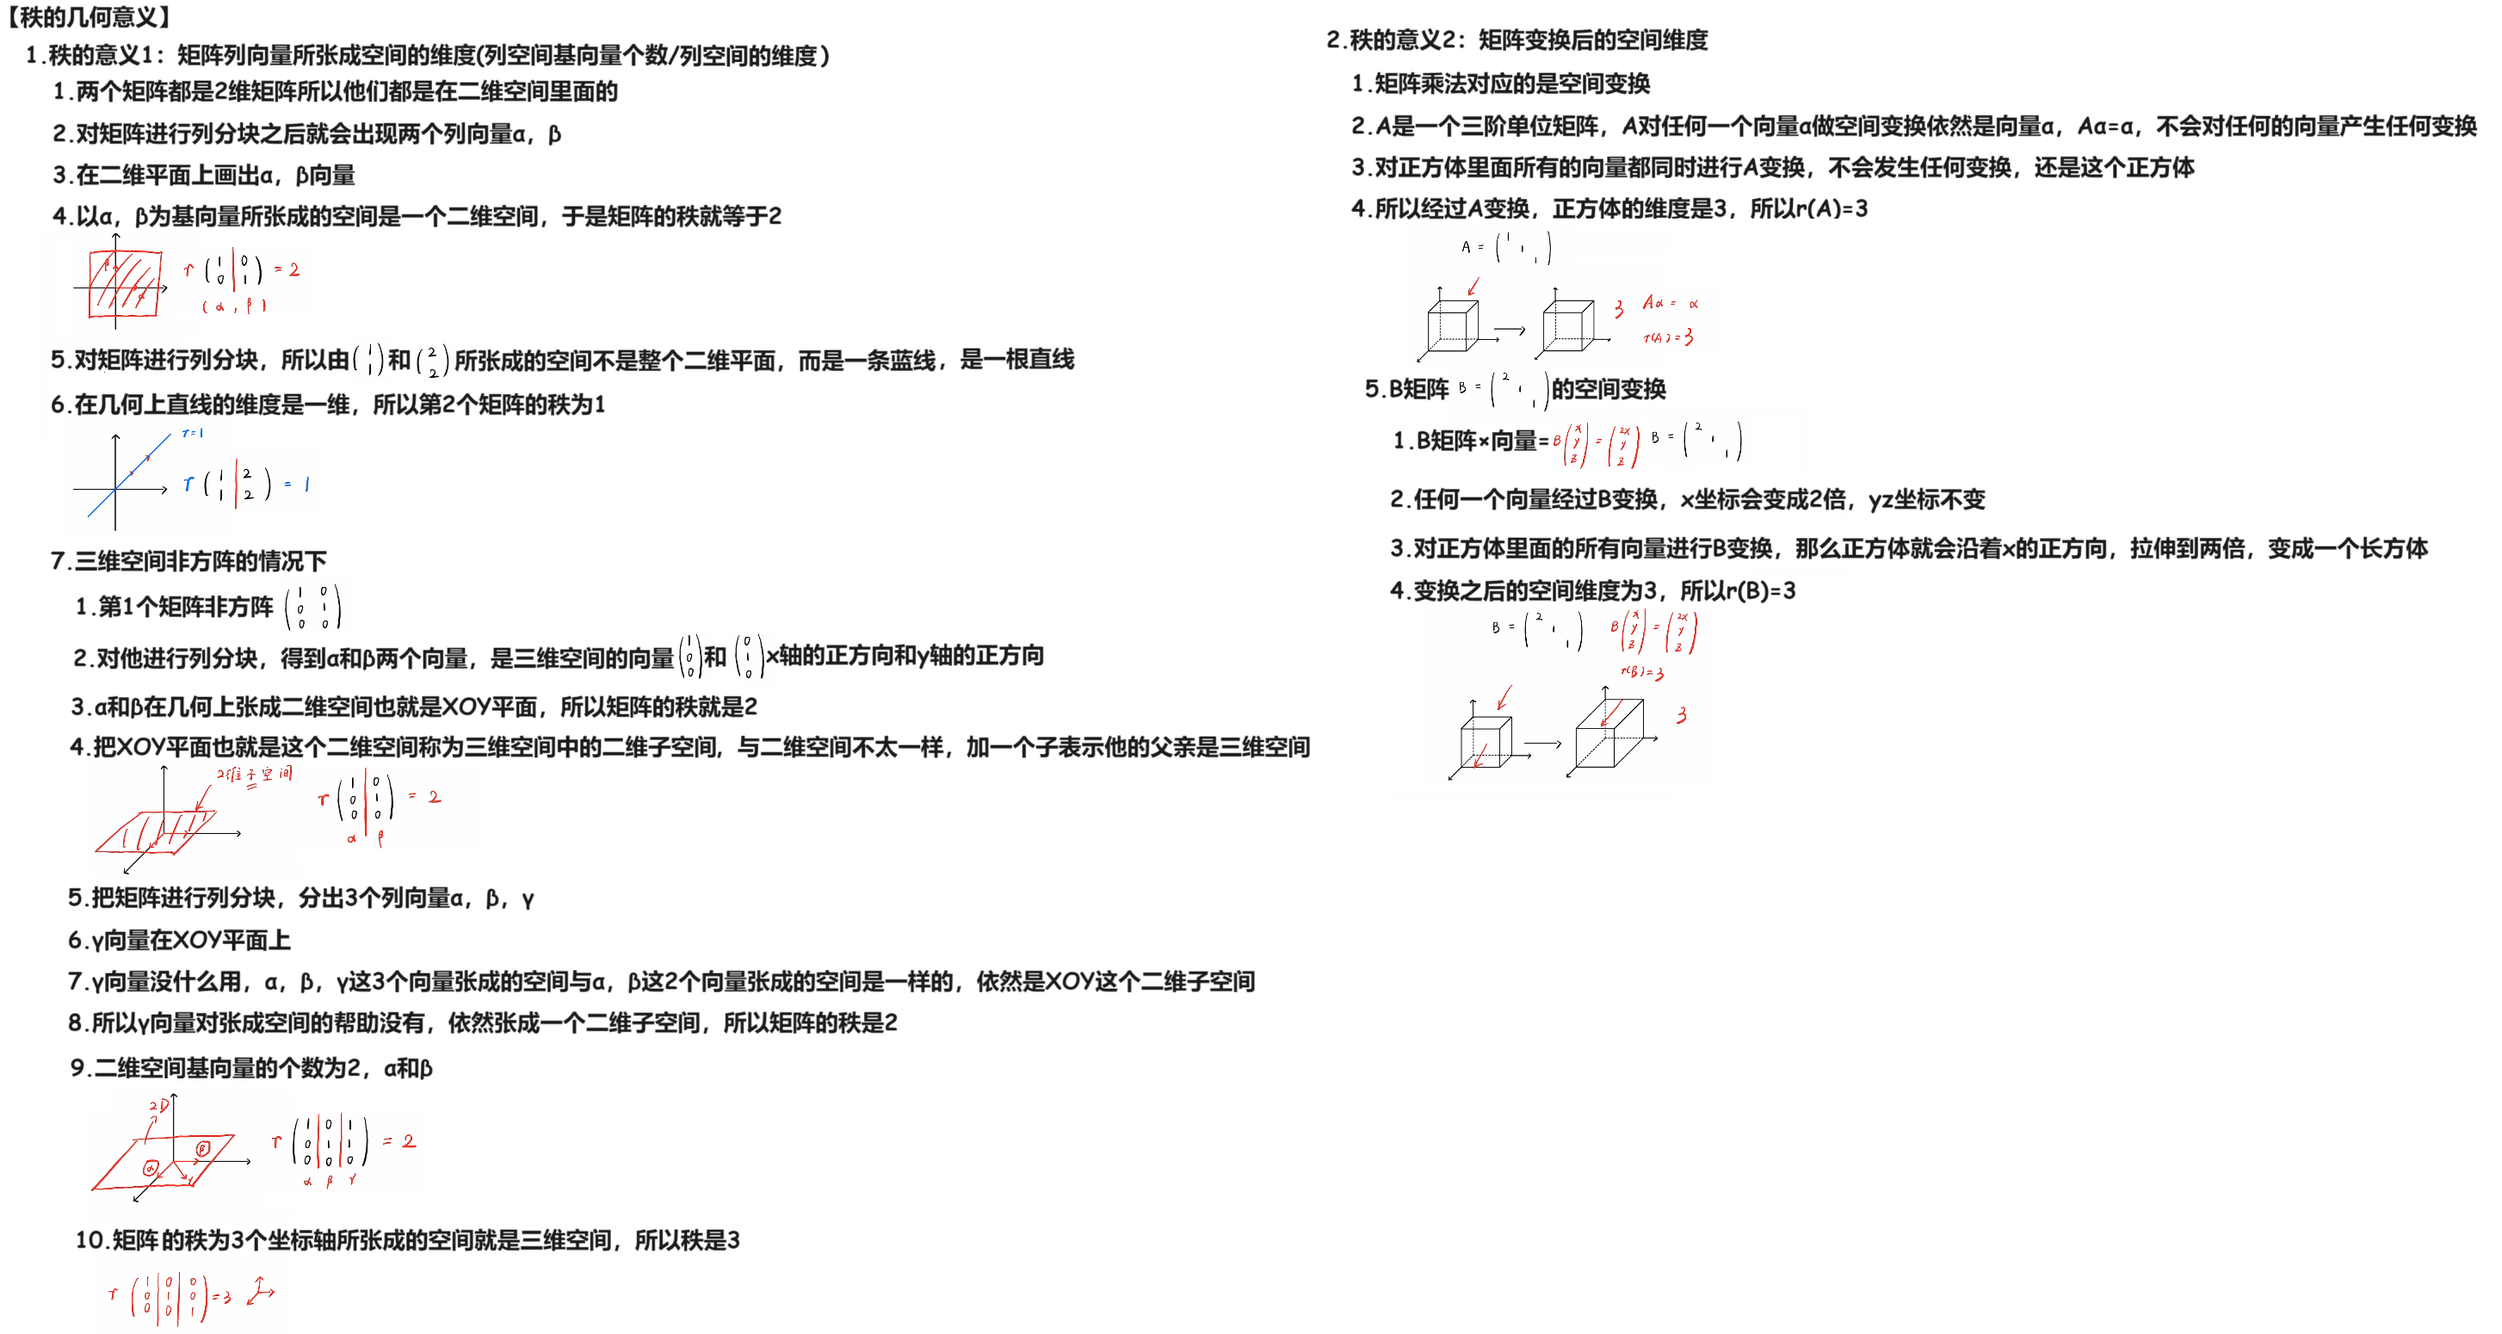
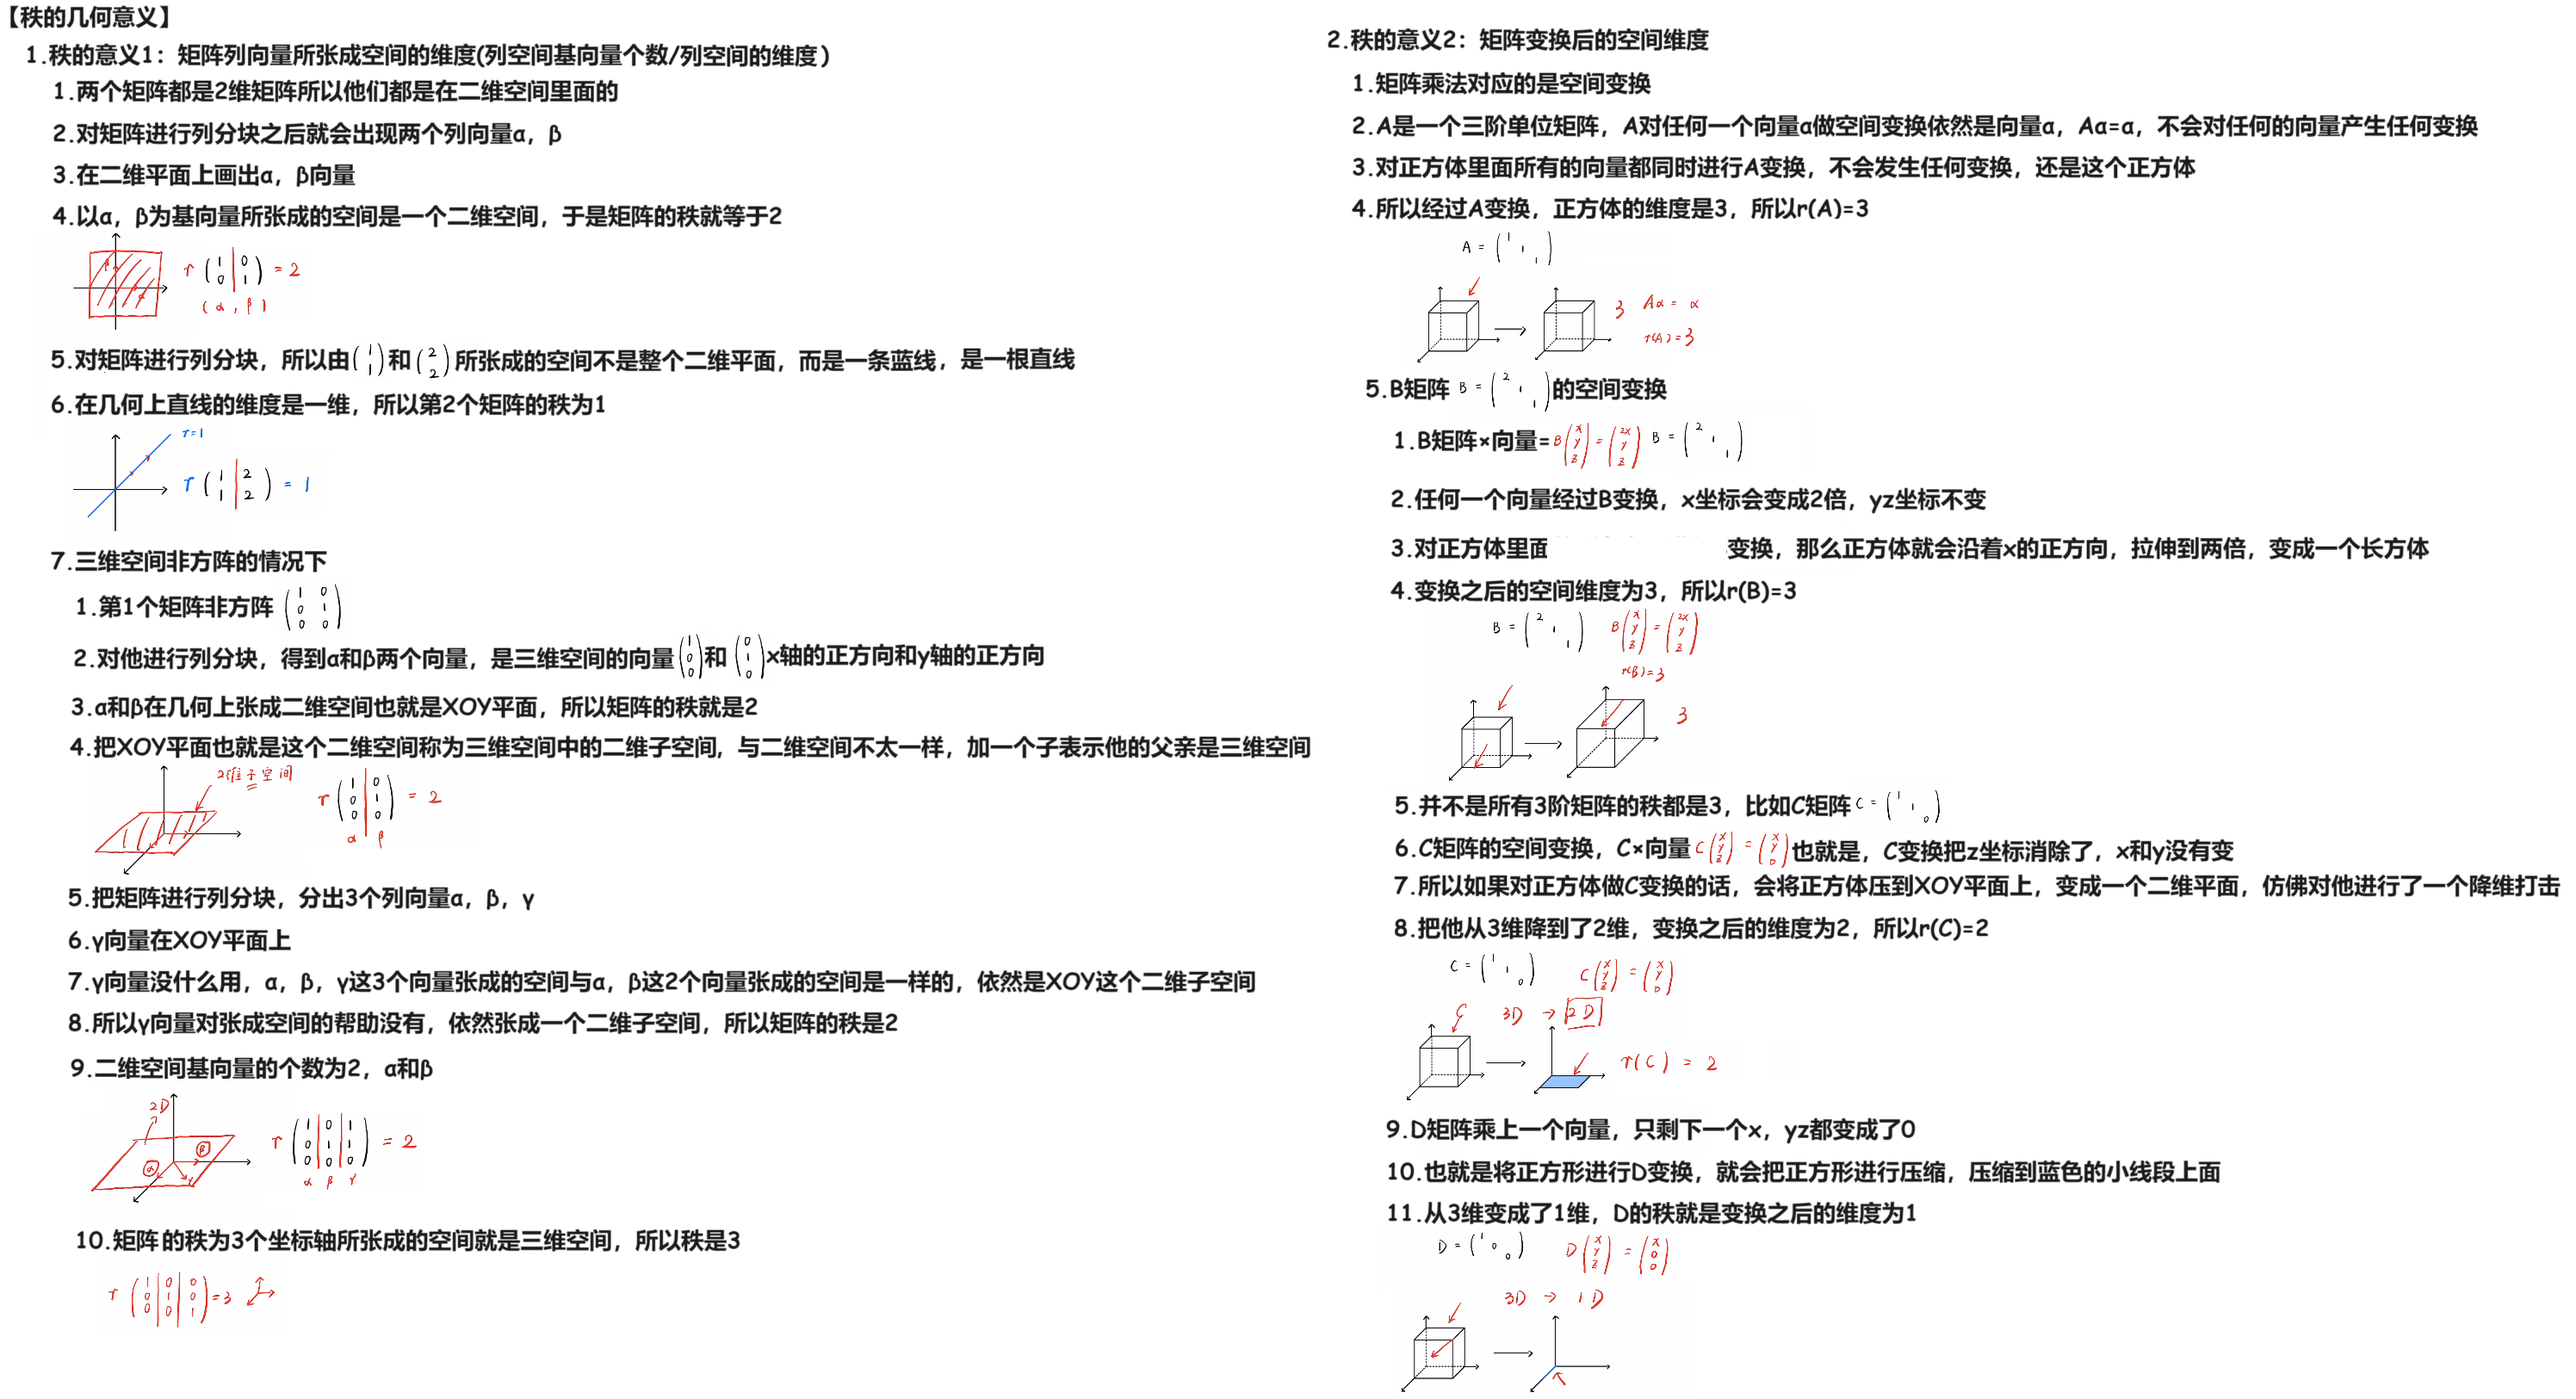
240305

Changed region(s): [[0.0, 0.0, 1.0, 0.991], [0.5263, 0.0, 0.9907, 0.1858], [0.5263, 0.7123, 0.8669, 0.8981]]

diff --git a/02 线代/02 知识点/05 【B站 小崔说数】 线代本质合集 240304/02 Doc.md b/02 线代/02 知识点/05 【B站 小崔说数】 线代本质合集 240304/02 Doc.md
@@ -11,3 +11,5 @@
 <img src="https://cvp.oss-cn-shanghai.aliyuncs.com/picgo/202403050952928.png" style="zoom:50%;" />
 
 # 04 秩的几何意义
+
+<img src="https://cvp.oss-cn-shanghai.aliyuncs.com/picgo/202403051359346.png" alt="image-20240305135953985" style="zoom:50%;" />

diff --git a/02 线代/02 知识点/04 秩 240304/02 Doc.md b/02 线代/02 知识点/04 秩 240304/02 Doc.md
@@ -1,0 +1,3 @@
+# 01 秩
+
+<img src="https://cvp.oss-cn-shanghai.aliyuncs.com/picgo/202403051405276.png" alt="image-20240305140509215" style="zoom:50%;" />
